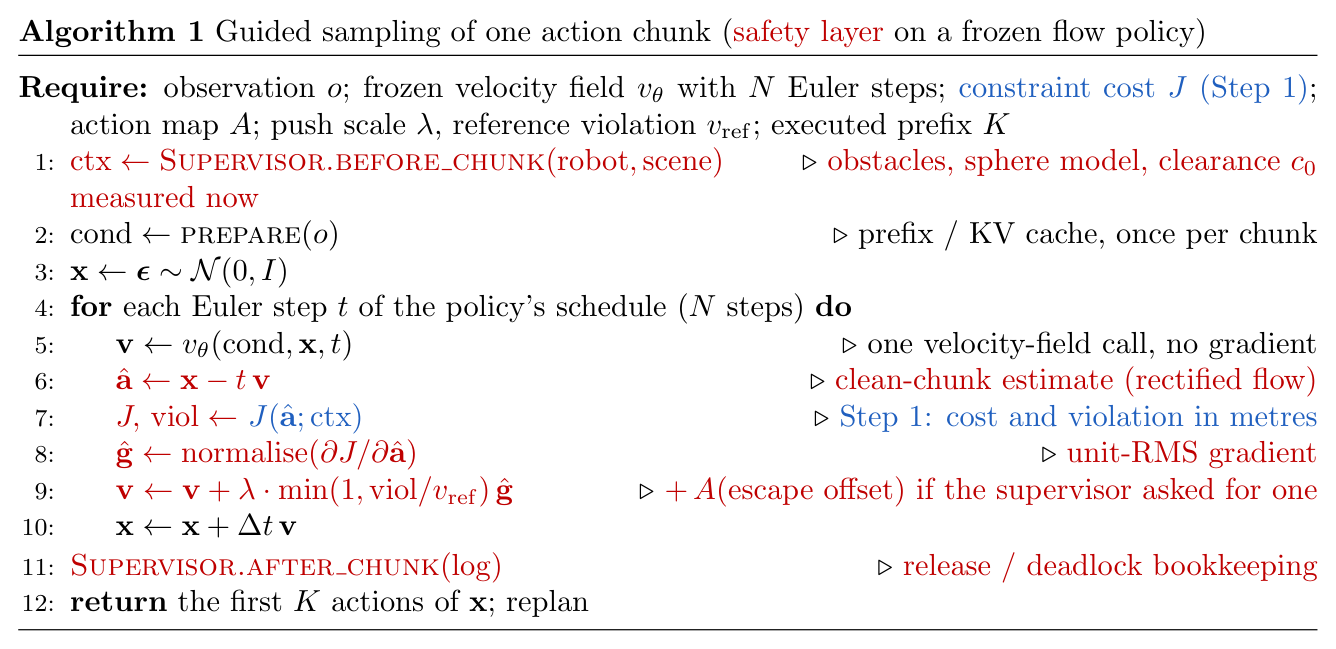
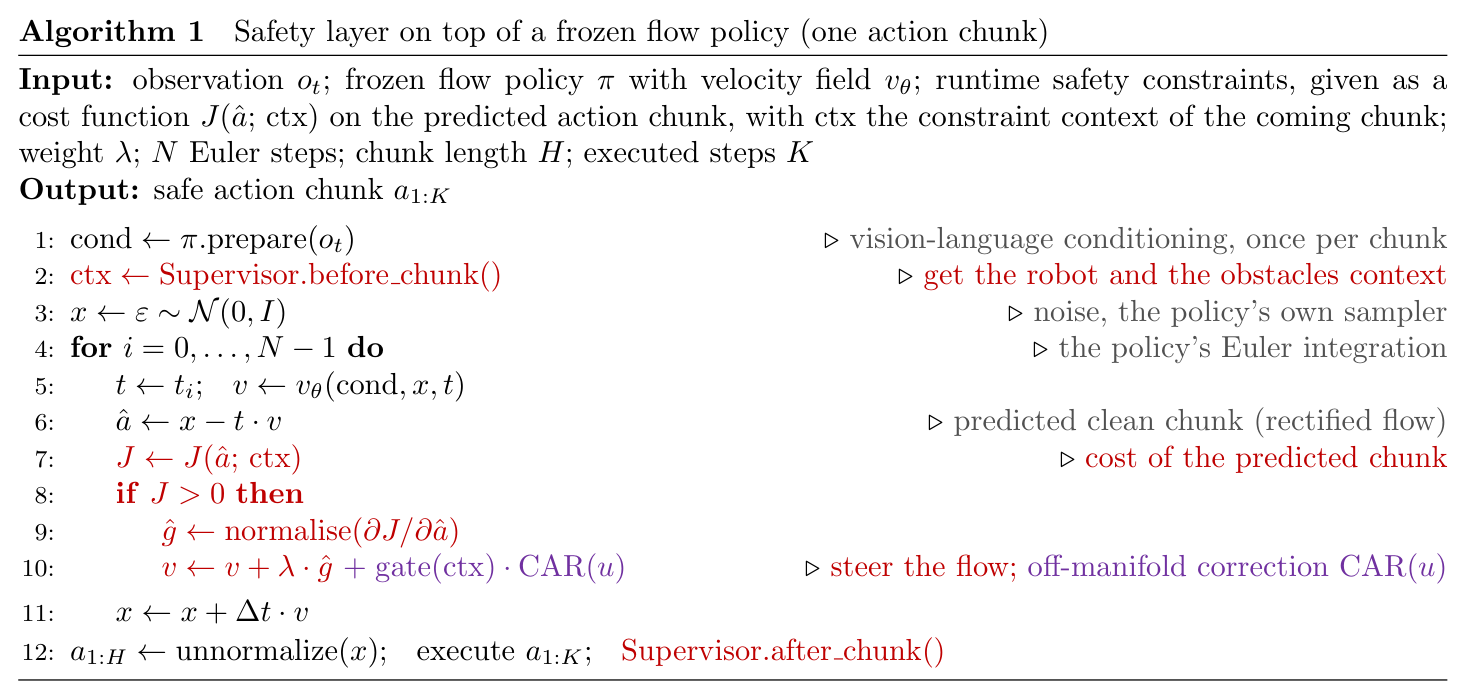
Algorithm 1 exactly as on the deck slide (12 lines, slide wording and colours: red = safety layer, purple = optional CAR term, grey = comments)

diff --git a/docs/algorithm1.tex b/docs/algorithm1.tex
@@ -1,32 +1,43 @@
-% Algorithm 1 of the README / paper. Build: pdflatex algorithm1.tex  (standalone), or paste the algorithmic block into a paper.
-% Colour code:  black = the frozen policy's own sampler,  red = the safety layer (this package),  blue = the runtime constraint.
-\documentclass[border=6pt,varwidth=15cm]{standalone}
+% Algorithm 1, identical to the "Step 2" slide of the September 2026 deck.
+% Colour code (as on the slide): black = the frozen policy's own sampler, grey = comments,
+% red = the safety layer (this package), purple = the optional learned correction term (CAR).
+\documentclass[border=6pt,varwidth=16.5cm]{standalone}
 \usepackage{amsmath,amssymb}
-\usepackage[dvipsnames]{xcolor}
+\usepackage{xcolor}
 \usepackage[noend]{algpseudocode}
 \definecolor{layer}{HTML}{C00000}
-\definecolor{constraint}{HTML}{1F5FBF}
+\definecolor{car}{HTML}{7030A0}
+\definecolor{note}{HTML}{505050}
 \newcommand{\SL}[1]{{\color{layer}#1}}
-\newcommand{\CS}[1]{{\color{constraint}#1}}
-\newcommand{\ahat}{\hat{\mathbf a}}
+\newcommand{\CAR}[1]{{\color{car}#1}}
+\newcommand{\NOTE}[1]{{\color{note}#1}}
+\algrenewcommand{\algorithmiccomment}[1]{\hfill$\triangleright$ #1}
+\algrenewcommand\algorithmicif{\textcolor{layer}{\textbf{if}}}
+\algrenewcommand\algorithmicthen{\textcolor{layer}{\textbf{then}}}
 \begin{document}
-\begin{minipage}{15cm}
-\noindent\textbf{Algorithm 1} Guided sampling of one action chunk (\SL{safety layer} on a frozen flow policy)\par\vspace{2pt}\hrule\vspace{4pt}
+\begin{minipage}{16.5cm}
+\noindent\textbf{Algorithm 1} \; Safety layer on top of a frozen flow policy (one action chunk)\par
+\vspace{2pt}\hrule\vspace{4pt}
+\noindent\textbf{Input:} observation $o_t$; frozen flow policy $\pi$ with velocity field $v_\theta$;
+runtime safety constraints, given as a cost function $J(\hat{a};\,\mathrm{ctx})$ on the predicted action chunk,
+with $\mathrm{ctx}$ the constraint context of the coming chunk; weight $\lambda$; $N$ Euler steps; chunk length $H$; executed steps $K$\par
+\noindent\textbf{Output:} safe action chunk $a_{1:K}$\par
+\vspace{2pt}
 \begin{algorithmic}[1]
-\Require observation $o$; frozen velocity field $v_\theta$ with $N$ Euler steps; \CS{constraint cost $J$ (Step~1)}; action map $A$; push scale $\lambda$, reference violation $v_{\mathrm{ref}}$; executed prefix $K$
-\State \SL{$\mathrm{ctx} \gets \textsc{Supervisor.before\_chunk}(\text{robot}, \text{scene})$} \Comment{\SL{obstacles, sphere model, clearance $c_0$ measured now}}
-\State $\mathrm{cond} \gets \textsc{prepare}(o)$ \Comment{prefix / KV cache, once per chunk}
-\State $\mathbf x \gets \boldsymbol\epsilon \sim \mathcal N(0, I)$
-\For{each Euler step $t$ of the policy's schedule ($N$ steps)}
-    \State $\mathbf v \gets v_\theta(\mathrm{cond}, \mathbf x, t)$ \Comment{one velocity-field call, no gradient}
-    \State \SL{$\ahat \gets \mathbf x - t\,\mathbf v$} \Comment{\SL{clean-chunk estimate (rectified flow)}}
-    \State \SL{$J, \, \mathrm{viol} \gets$} \CS{$J(\ahat; \mathrm{ctx})$} \Comment{\CS{Step 1: cost and violation in metres}}
-    \State \SL{$\hat{\mathbf g} \gets \mathrm{normalise}\!\left(\partial J / \partial \ahat\right)$} \Comment{\SL{unit-RMS gradient}}
-    \State \SL{$\mathbf v \gets \mathbf v + \lambda \cdot \min\!\left(1, \mathrm{viol} / v_{\mathrm{ref}}\right) \hat{\mathbf g}$} \Comment{\SL{$+\,A(\text{escape offset})$ if the supervisor asked for one}}
-    \State $\mathbf x \gets \mathbf x + \Delta t \, \mathbf v$
+\State $\mathrm{cond} \gets \pi.\mathrm{prepare}(o_t)$ \Comment{\NOTE{vision-language conditioning, once per chunk}}
+\State \SL{$\mathrm{ctx} \gets \mathrm{Supervisor.before\_chunk}()$} \Comment{\SL{get the robot and the obstacles context}}
+\State $x \gets \varepsilon \sim \mathcal N(0, I)$ \Comment{\NOTE{noise, the policy's own sampler}}
+\For{$i = 0, \ldots, N-1$} \Comment{\NOTE{the policy's Euler integration}}
+    \State $t \gets t_i$; \; $v \gets v_\theta(\mathrm{cond}, x, t)$
+    \State $\hat{a} \gets x - t \cdot v$ \Comment{\NOTE{predicted clean chunk (rectified flow)}}
+    \State \SL{$J \gets J(\hat{a};\,\mathrm{ctx})$} \Comment{\SL{cost of the predicted chunk}}
+    \If{\SL{$J > 0$}}
+        \State \SL{$\hat{g} \gets \mathrm{normalise}\!\left(\partial J / \partial \hat{a}\right)$}
+        \State \SL{$v \gets v + \lambda \cdot \hat{g}$} \CAR{$+\; \mathrm{gate}(\mathrm{ctx}) \cdot \mathrm{CAR}(u)$} \Comment{\SL{steer the flow;} \CAR{off-manifold correction CAR($u$)}}
+    \EndIf
+    \State $x \gets x + \Delta t \cdot v$
 \EndFor
-\State \SL{$\textsc{Supervisor.after\_chunk}(\log)$} \Comment{\SL{release / deadlock bookkeeping}}
-\State \Return the first $K$ actions of $\mathbf x$; replan
+\State $a_{1:H} \gets \mathrm{unnormalize}(x)$; \; execute $a_{1:K}$; \; \SL{$\mathrm{Supervisor.after\_chunk}()$}
 \end{algorithmic}
 \vspace{2pt}\hrule
 \end{minipage}

diff --git a/README.md b/README.md
@@ -121,18 +121,22 @@ carries the margins, `d_safe`, `cbf_vref` and the executed-prefix length; `T` th
 ## Step 2 — Incorporating the safety layer into a flow policy
 
 The policy's sampler integrates a velocity field `v_θ(x_t, t | obs)` from noise to the action chunk. The layer
-wraps that loop (Algorithm 1). Notation: `t` runs in the policy's own convention (`FlowSpec`: 1→0 for openpi, 0→1
-for GR00T), `A` = action map, `λ` = push scale (1.0), `v_ref` = 1 cm.
+wraps that loop (Algorithm 1). `t` runs in the policy's own convention (`FlowSpec`: 1→0 for openpi, 0→1 for GR00T);
+`λ` is the push scale (1.0); `normalise` rescales the gradient to unit RMS and multiplies it by `min(1, violation / v_ref)`
+with `v_ref` = 1 cm (minimal intervention: a 1 mm violation gets a 10x smaller push than a 1 cm one).
 
-![Algorithm 1: guided sampling of one action chunk. Black = the policy's own sampler, red = the safety layer, blue = the runtime constraint](docs/algorithm1.png)
+![Algorithm 1: safety layer on top of a frozen flow policy. Black = the policy's own sampler, grey = comments, red = the safety layer, purple = the optional CAR correction term](docs/algorithm1.png)
 
-LaTeX source with the same colour code: [`docs/algorithm1.tex`](docs/algorithm1.tex) (black = the frozen policy's own
-sampler, red = the safety layer, blue = the constraint of Step 1).
+LaTeX source with the same colour code: [`docs/algorithm1.tex`](docs/algorithm1.tex). Red lines are the safety layer
+(this package); the purple term in line 10 is the optional learned correction (CAR), which is off (`gate(ctx) = 0`) in
+every configuration used in this README. Notes: pi0.5 uses N = 10, H = 10, K = 5; GR00T N1.7 uses N = 4, H = 16,
+K = 8; λ = 1. Line 6 is the pi0.5 flow convention (t: 1 → 0); GR00T's â = x + (1 − t)·v is handled by its adapter,
+the rest is identical.
 
-Lines 5–10 are `Guide.sample` (`safeguide/core/guide.py`); lines 1 and 11 are the `Supervisor`
-(`safeguide/core/supervisor.py`). A model is plugged in through a `FlowPolicyAdapter` (`safeguide/adapters/base.py`):
-`prepare`, `velocity`, `sample_noise`, `flow` (time convention), `action_map`, and `install` (how the policy's own
-sampler is replaced). Two adapters exist.
+Lines 5–11 are `Guide.sample` (`safeguide/core/guide.py`); line 2 and the `after_chunk` call in line 12 are the
+`Supervisor` (`safeguide/core/supervisor.py`). A model is plugged in through a `FlowPolicyAdapter`
+(`safeguide/adapters/base.py`): `prepare`, `velocity`, `sample_noise`, `flow` (time convention), `action_map`, and
+`install` (how the policy's own sampler is replaced). Two adapters exist.
 
 ### Example A — pi0.5 (openpi, PyTorch) + guidance
 
